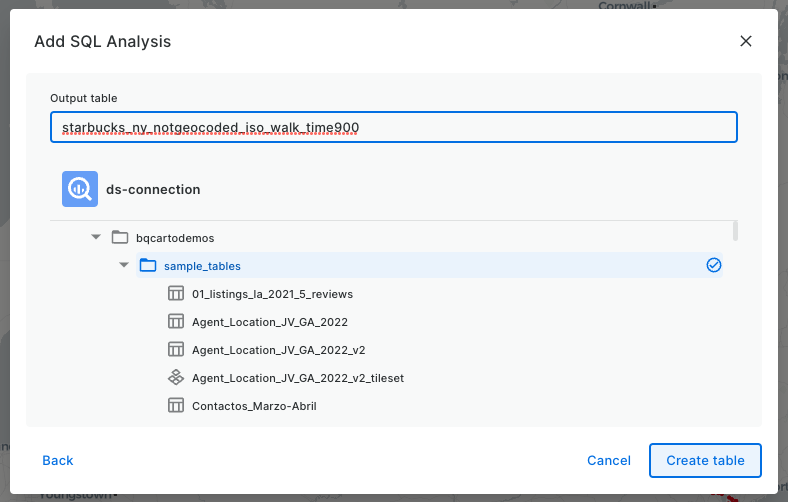
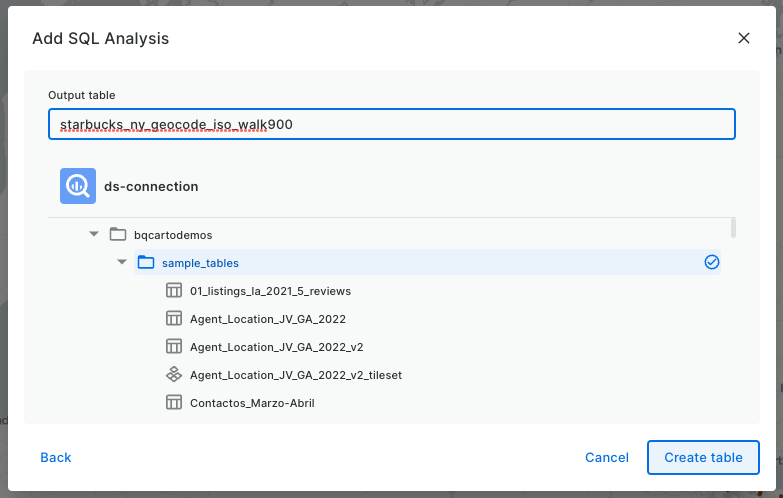
lds examples images improvements

diff --git a/app/content/analytics-toolbox-redshift/examples/geocoding-your-address-data.md b/app/content/analytics-toolbox-redshift/examples/geocoding-your-address-data.md
@@ -45,16 +45,18 @@ Once you are all set getting access to the lds module, geocoding your data is as
 
 
 ```sql
-CALL carto.GEOCODE_TABLE('carto_dev_data.demo_tables.starbucks_ny_geocode','full_address','geom_tomtom', 'us');
+CALL carto.GEOCODE_TABLE(
+    'carto_dev_data.demo_tables.starbucks_ny_geocode',
+    'full_address','geom', 'us');
 -- The table 'carto_dev_data.demo_tables.starbucks_ny_geocode' will be updated
 -- adding the columns: geom , carto_geocode_metadata.
 ```
 
 
 
-In this case, we select 'carto_dev_data.demo_tables.starbucks_ny_geocode' as input table and “full_address” as address column. We choose the "geom_tomtom" as the column name for the geometry column, and we also specify the name of the country based on its ISO 3166-1 alpha-2 code [ISO 3166-1 alpha-2 code](https://en.wikipedia.org/wiki/ISO_3166-1_alpha-2). You can refer to the [SQL reference](https://docs.carto.com/analytics-toolbox-redshift/sql-reference/lds/#geocode_table) if you need more details about this procedure and its parameters. 
+In this case, we select 'carto_dev_data.demo_tables.starbucks_ny_geocode' as input table and “full_address” as address column. We choose the "geom" as the column name for the geometry column, and we also specify the name of the country based on its ISO 3166-1 alpha-2 code [ISO 3166-1 alpha-2 code](https://en.wikipedia.org/wiki/ISO_3166-1_alpha-2). You can refer to the [SQL reference](https://docs.carto.com/analytics-toolbox-redshift/sql-reference/lds/#geocode_table) if you need more details about this procedure and its parameters. 
 
-As a result of the query, we obtain the input table modified with a new column called "geom_tomtom" with the geographic coordinates (latitude and longitude) and the "carto_geocode_metadata" column with additional information of the geocoding result in JSON format.
+As a result of the query, we obtain the input table modified with a new column called "geom" with the geographic coordinates (latitude and longitude) and the "carto_geocode_metadata" column with additional information of the geocoding result in JSON format.
 
 
 <div style="text-align:center" >

diff --git a/app/content/analytics-toolbox-redshift/examples/trade-areas-based-on-isolines.md b/app/content/analytics-toolbox-redshift/examples/trade-areas-based-on-isolines.md
@@ -48,8 +48,8 @@ In order to create the isolines, we will execute the [CREATE_ISOLINES()](https:/
 
 ```sql
 call carto.CREATE_ISOLINES(
-    'select * from carto_dev_data.demo_tables.safegraph_coreplaces_starbucks_ny_geocoded',
-    'carto_dev_data.demo_tables.safegraph_coreplaces_starbucks_ny_geocoded_iso_walk_time',
+    'select * from carto_dev_data.demo_tables.starbucks_ny_geocode',
+    'carto_dev_data.demo_tables.starbucks_ny_geocode_iso_walk_time900',
     'geom_tomtom',
     'walk', 900, 'time'
 );
@@ -79,7 +79,7 @@ Then, on that data source, click on “Add SQL Analysis”.
 
 
 <div style="text-align:center" >
-<img src="/img/bq-analytics-toolbox/examples/bq_isolines1_builder.png" alt="Isolines step 1 CARTO Builder" style="width:100%">
+<img src="/img/rs-analytics-toolbox/examples/rs_isolines1_builder.png" alt="Isolines step 1 CARTO Builder" style="width:100%">
 </div>
 
 
@@ -88,7 +88,7 @@ Select “Trade areas” in the list of available SQL Analysis.
 
 
 <div style="text-align:center" >
-<img src="/img/bq-analytics-toolbox/examples/bq_isolines2_builder.png" alt="Isolines step 2 CARTO Builder" style="width:100%">
+<img src="/img/rs-analytics-toolbox/examples/rs_isolines2_builder.png" alt="Isolines step 2 CARTO Builder" style="width:100%">
 </div>
 
 
@@ -97,7 +97,7 @@ Choose the parameters of your isolines, in this example “walk” mode and 900 
 
 
 <div style="text-align:center" >
-<img src="/img/bq-analytics-toolbox/examples/bq_isolines3_builder.png" alt="Isolines step 3 CARTO Builder" style="width:100%">
+<img src="/img/rs-analytics-toolbox/examples/rs_isolines3_builder.png" alt="Isolines step 3 CARTO Builder" style="width:100%">
 </div>
 
 
@@ -106,7 +106,7 @@ You should choose the location and the name of the output table and click on "cr
 
 
 <div style="text-align:center" >
-<img src="/img/bq-analytics-toolbox/examples/bq_isolines4_builder.png" alt="Isolines step 4 CARTO Builder" style="width:100%">
+<img src="/img/rs-analytics-toolbox/examples/rs_isolines4_builder.png" alt="Isolines step 4 CARTO Builder" style="width:100%">
 </div>
 
 

diff --git a/app/content/analytics-toolbox-snowflake/examples/geocoding-your-address-data.md b/app/content/analytics-toolbox-snowflake/examples/geocoding-your-address-data.md
@@ -47,7 +47,7 @@ Once you are all set getting access to the lds module, geocoding your data is as
 ```sql
 CALL carto.GEOCODE_TABLE(
     'CARTO_DEV_DATA.DEMO_TABLES.STARBUCKS_NY_GEOCODE',
-    'FULL_ADDRESS','GEOM_TOMTOM', 'US');
+    'FULL_ADDRESS','GEOM', 'US');
 -- The table 'CARTO_DEV_DATA.DEMO_TABLES.STARBUCKS_NY_GEOCODE' will be updated
 -- adding the columns: geom , carto_geocode_metadata.
 ```
@@ -56,7 +56,7 @@ CALL carto.GEOCODE_TABLE(
 
 In this case, we select 'CARTO_DEV_DATA.DEMO_TABLES.STARBUCKS_NY_GEOCODE' as input table and “full_address” as address column. We choose the "GEOM_TOMTOM" as the column name for the geometry column, and we also specify the name of the country based on its ISO 3166-1 alpha-2 code [ISO 3166-1 alpha-2 code](https://en.wikipedia.org/wiki/ISO_3166-1_alpha-2). You can refer to the [SQL reference](https://docs.carto.com/analytics-toolbox-snowflake/sql-reference/lds/#geocode_table) if you need more details about this procedure and its parameters. 
 
-As a result of the query, we obtain the input table modified with a new column called "GEOM_TOMTOM" with the geographic coordinates (latitude and longitude) and the "CARTO_GEOCODE_METADATA" column with additional information of the geocoding result in JSON format.
+As a result of the query, we obtain the input table modified with a new column called "GEOM" with the geographic coordinates (latitude and longitude) and the "CARTO_GEOCODE_METADATA" column with additional information of the geocoding result in JSON format.
 
 
 <div style="text-align:center" >

diff --git a/app/content/analytics-toolbox-redshift/examples/categories/LDS/_index.md b/app/content/analytics-toolbox-redshift/examples/categories/LDS/_index.md
@@ -6,6 +6,4 @@ type: examples
 category: LDS
 layout: categories/list
 euFlag: true
-aliases:
-    - /analytics-toolbox-rs/examples/categories/LDS/
 ---
